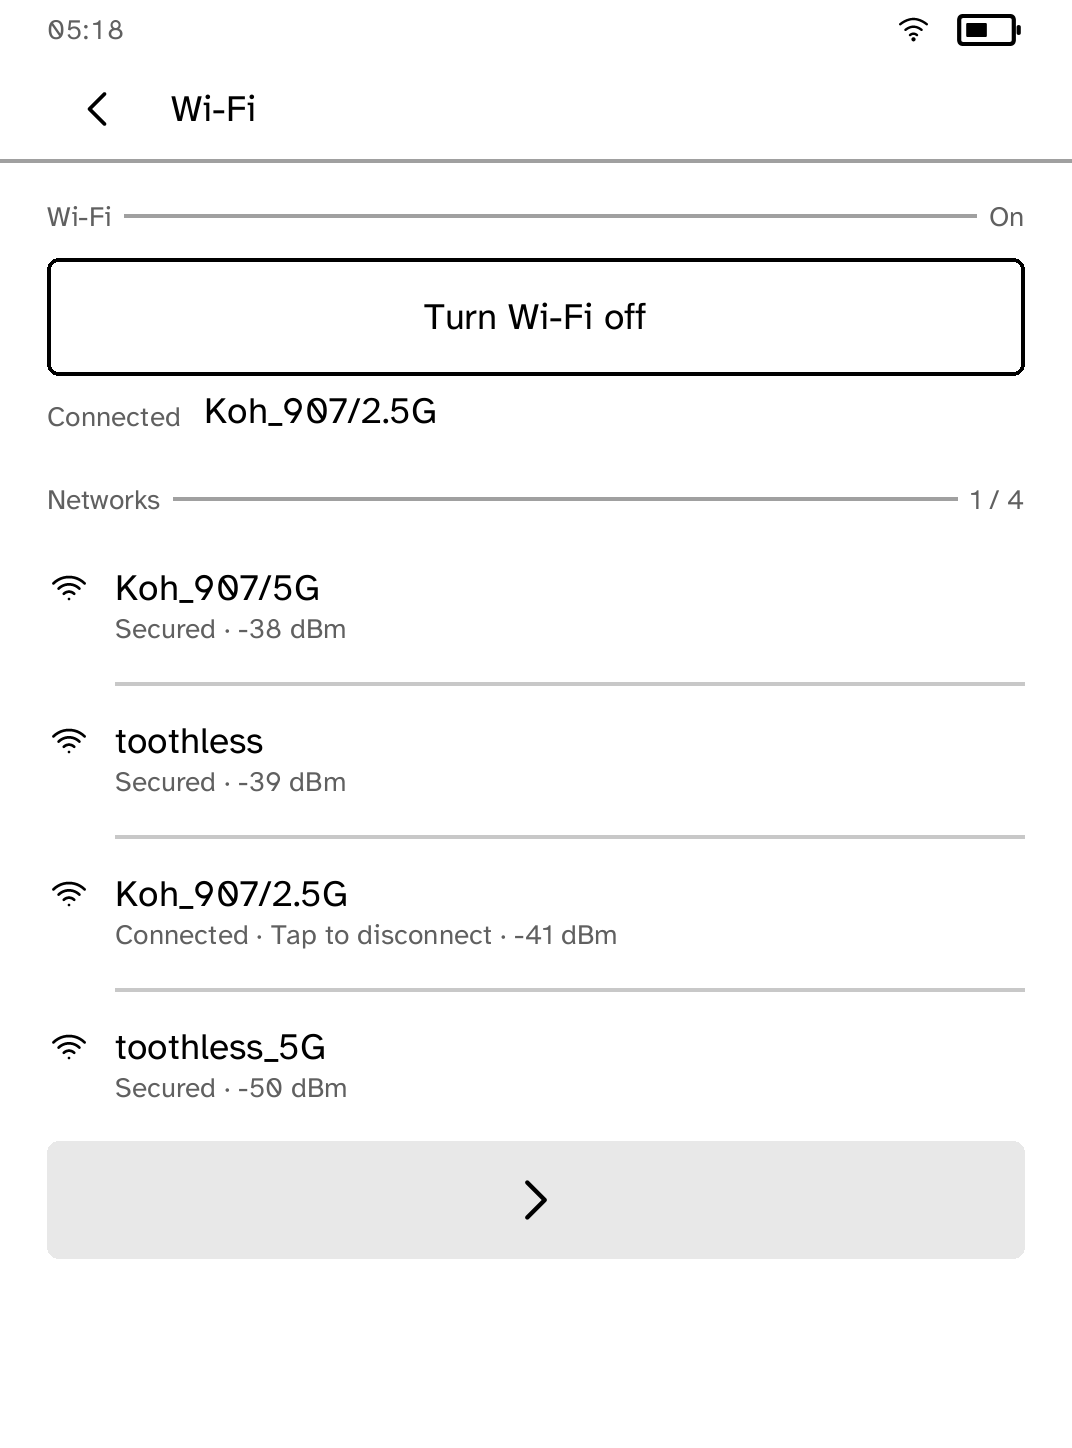
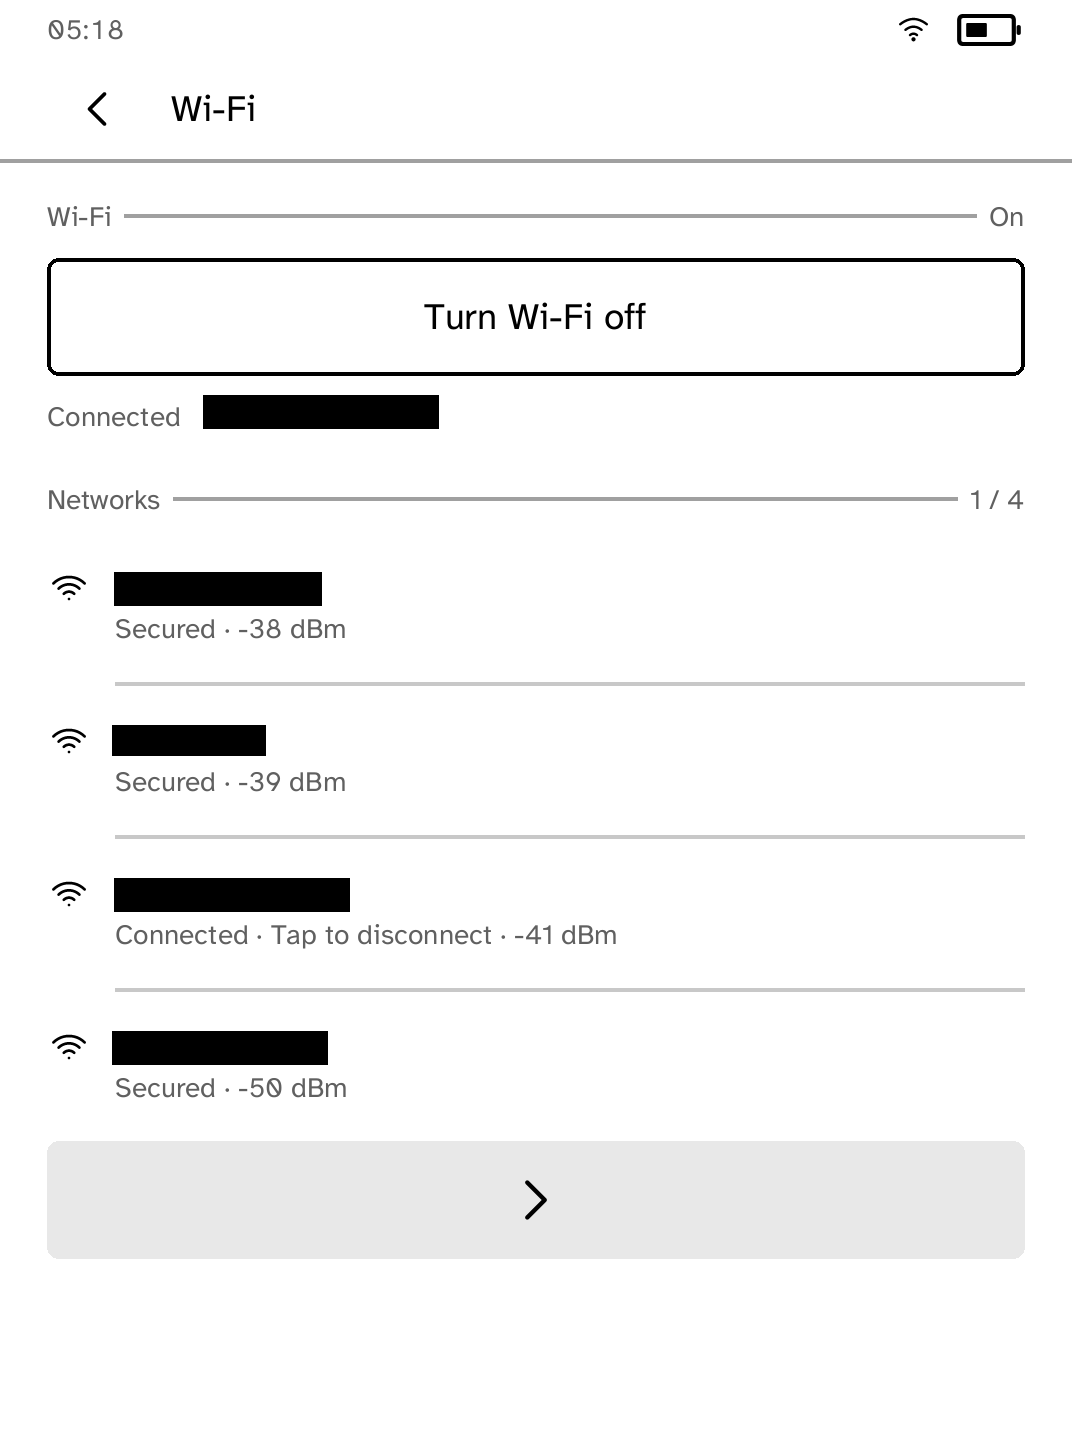
Paint out the network names, in the screenshots and in the sweep that takes them
Two of the settings screens are, by their nature, a list of the names of the
networks around whoever took the picture. `wifi.png` carried four, two of them
the neighbours', and `connections.png` carried the one this reader was on.
Between them they say which street it is.

The bar is placed by ink rather than by coordinate. Every line involved has the
same shape -- a label or an icon, a clear gap, then the name, running to the end
of the line -- so the band around the given row is split at any gap of twelve
pixels and the last run is painted out. A name of a different length, a
different typeface or a different panel width all still work, which a rectangle
read off this particular image would not.

It fails loudly. A row with no ink on it means the screen has been redesigned
and the name has moved, so the file is left exactly as it was and the exit
status says so. A redaction that silently does nothing is the worst outcome
available here, because nobody looks at these again.

It is also safe to run twice, which took a second attempt to get right. A bar
is itself ink, and it lands nine pixels from the label before it, so the first
version read the two as one word on a second pass and painted out "Connected
to" as well. A line whose ink now ends in sixteen solid columns is left alone.

And `shoot-apps.sh` runs it as part of taking the shot rather than as a step
afterwards, because the last sweep is what put these names back.

diff --git a/scripts/redact-ssids.py b/scripts/redact-ssids.py
@@ -1,0 +1,167 @@
+#!/usr/bin/env python3
+"""Paints out the network names in a screenshot of the settings app.
+
+Two of the settings screens are, by their nature, a list of the names of the
+networks around whoever took the picture. That is exactly right on a desk and
+wrong on the front page of a public repository, where it says which street the
+reader is on and what the neighbours call their routers.
+
+Nothing else in the tree needs this. Bluetooth device names are a person's own
+name for their own headphones, and are left alone deliberately; a screenshot
+with a name in it is a decision for whoever is in it.
+
+## How a name is found
+
+Not by reading it -- there is no OCR here -- but by where it sits. Every line
+this touches has the same shape: some label or icon, a clear gap, then the
+name, which runs to the end of the line. So the band of ink containing the
+given row is split into runs at any gap of twelve pixels or more, and the last
+run is the name. That survives a name of a different length, a different
+typeface and a different panel width, which a hard-coded rectangle would not.
+
+## How it fails
+
+Loudly. A row with no ink on it means the screen has been redesigned and the
+name has moved, so the image is left exactly as it was and the exit status
+says so. A redaction that silently does nothing is worse than no redaction,
+because the whole point is that nobody looks at these again.
+
+Running it twice is safe. A bar is itself ink, and it sits close enough to the
+label before it that a second pass would read the two as one word and paint
+out the label as well, so a line that already carries a bar is left alone.
+
+usage: scripts/redact-ssids.py IMAGE --line Y [--line Y ...]
+
+Y is any row inside the line to paint out. The band around it is measured, so
+the number only has to land somewhere in the text rather than on its baseline.
+"""
+
+import sys
+from pathlib import Path
+
+from PIL import Image, ImageDraw
+
+# Anything darker than this counts as ink. The panel is greyscale and the type
+# is drawn near black, so this sits well clear of the anti-aliased edges.
+INK = 128
+
+# A gap this wide separates a label from a value. Comfortably wider than the
+# space inside "Connected to" and narrower than the gap that follows it.
+WORD_GAP = 12
+
+# Painted a little larger than the ink, so no anti-aliased edge survives.
+PAD_X = 4
+PAD_Y = 3
+
+# How many columns at the end of a line are examined to tell a bar from type.
+BAR_PROBE = 16
+
+
+def band_around(pixels, width, height, row):
+    """The run of rows of ink containing `row`, or None if that row is blank."""
+    def has_ink(y):
+        return any(pixels[x, y] < INK for x in range(width))
+
+    if not 0 <= row < height or not has_ink(row):
+        return None
+    top = row
+    while top > 0 and has_ink(top - 1):
+        top -= 1
+    bottom = row
+    while bottom + 1 < height and has_ink(bottom + 1):
+        bottom += 1
+    return top, bottom
+
+
+def last_run(pixels, width, top, bottom):
+    """The final run of ink across `top`..`bottom`, split at WORD_GAP."""
+    columns = [
+        any(pixels[x, y] < INK for y in range(top, bottom + 1)) for x in range(width)
+    ]
+    runs, start, blank = [], None, 0
+    for x, inked in enumerate(columns):
+        if inked:
+            if start is None:
+                start = x
+            blank = 0
+        elif start is not None:
+            blank += 1
+            if blank >= WORD_GAP:
+                runs.append((start, x - blank))
+                start = None
+    if start is not None:
+        runs.append((start, width - 1))
+    return runs[-1] if runs else None
+
+
+def already_barred(pixels, width, band):
+    """Whether the line already ends in a solid bar rather than in type.
+
+    A bar runs to the end of the line's ink and fills its box; the last
+    letter of a name never does. Sixteen columns is wider than any stroke
+    and narrower than the shortest name worth hiding.
+    """
+    top, bottom = band
+    edge = max(
+        (x for x in range(width) if any(pixels[x, y] < INK for y in range(top, bottom + 1))),
+        default=None,
+    )
+    if edge is None or edge < BAR_PROBE:
+        return False
+    return all(
+        pixels[x, y] < INK
+        for x in range(edge - BAR_PROBE + 1, edge + 1)
+        for y in range(top, bottom + 1)
+    )
+
+
+def redact(path, rows):
+    image = Image.open(path).convert("L")
+    pixels = image.load()
+    width, height = image.size
+    draw = ImageDraw.Draw(image)
+    painted = 0
+    for row in rows:
+        band = band_around(pixels, width, height, row)
+        if band is None:
+            print(f"{path}: no ink on row {row}; the screen has moved", file=sys.stderr)
+            return None
+        if already_barred(pixels, width, band):
+            continue
+        run = last_run(pixels, width, *band)
+        if run is None:
+            print(f"{path}: nothing to paint on row {row}", file=sys.stderr)
+            return None
+        draw.rectangle(
+            [run[0] - PAD_X, band[0] - PAD_Y, run[1] + PAD_X, band[1] + PAD_Y],
+            fill=0,
+        )
+        painted += 1
+    image.save(path)
+    return painted
+
+
+def main(argv):
+    paths, rows = [], []
+    argument = iter(argv)
+    for flag in argument:
+        if flag == "--line":
+            rows.append(int(next(argument)))
+        elif flag.startswith("-"):
+            print(__doc__.strip(), file=sys.stderr)
+            return 2
+        else:
+            paths.append(Path(flag))
+    if not paths or not rows:
+        print(__doc__.strip(), file=sys.stderr)
+        return 2
+    for path in paths:
+        painted = redact(path, rows)
+        if painted is None:
+            return 1
+        print(f"{path}: painted out {painted} name(s)")
+    return 0
+
+
+if __name__ == "__main__":
+    raise SystemExit(main(sys.argv[1:]))

diff --git a/examples/settings/README.md b/examples/settings/README.md
@@ -9,9 +9,12 @@ the Bluetooth chip and the battery.
 
 | Wi-Fi | Bluetooth |
 | --- | --- |
-| ![Wi-Fi on, connected to a named network, with a scan button](screenshots/wifi.png) | ![A paired pair of AirPods listed by name and shown as connected](screenshots/bluetooth.png) |
+| ![Wi-Fi on, one connected network and three more from a scan, each with its signal strength](screenshots/wifi.png) | ![A paired pair of AirPods listed by name and shown as connected](screenshots/bluetooth.png) |
 
-*Captured from a Kobo Clara BW over Wi-Fi with `kobo shot --device`.*
+*Captured from a Kobo Clara BW over Wi-Fi with `kobo shot --device`. The black
+bars are network names, painted out by `scripts/redact-ssids.py`: these two
+screens are by their nature a list of what the neighbours call their routers,
+and that is nobody's business here.*
 
 ## Why the front screen states everything
 
